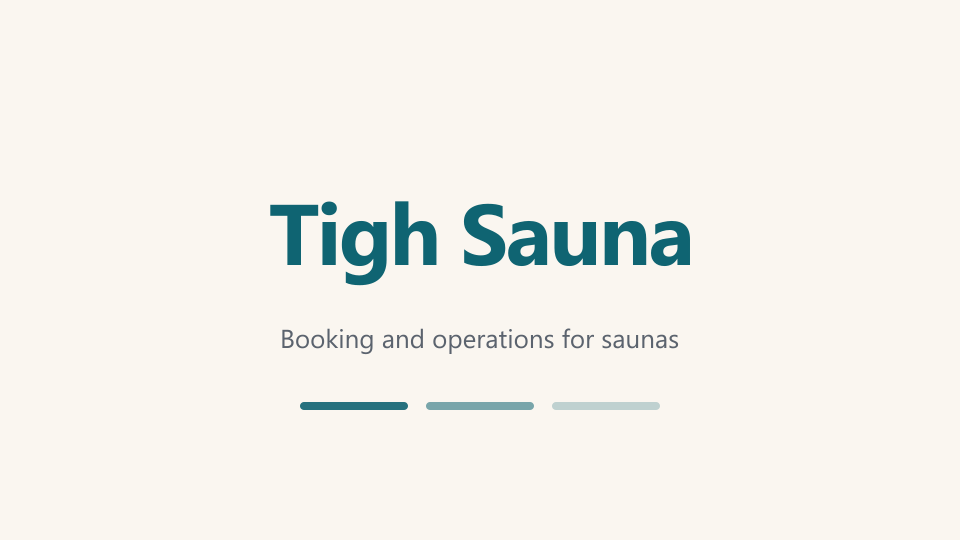
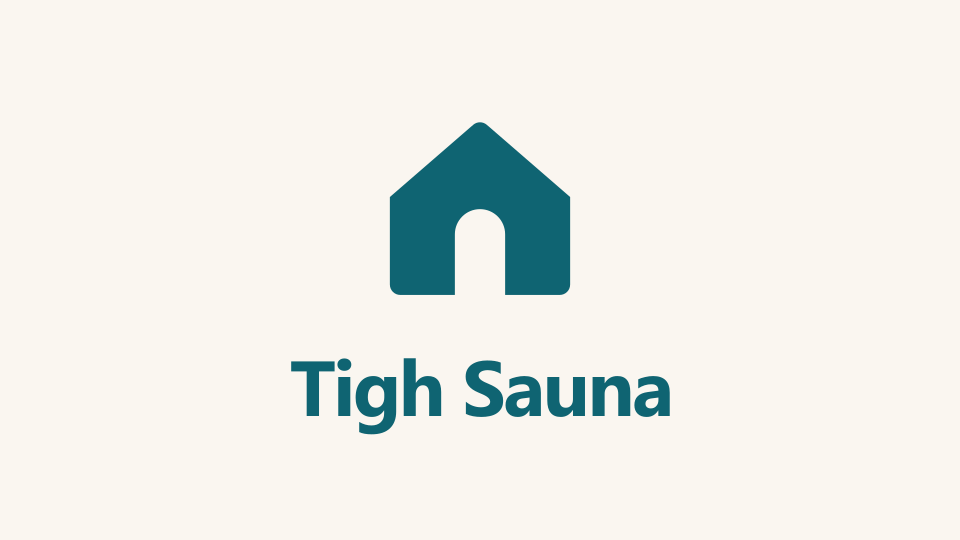
feat(images): the Tigh Sauna card is the house mark now, not a stand-in
The card was a typographic lockup with three bars standing in for a diary,
written when there was no mark to copy and inventing one would have been a
claim about the brand. There is one now, so the stand-in goes.

The house is vendored from the product's own icon rather than redrawn, same
reason as the Loira L: this card has to keep building after the live site is
next redesigned. Steam on birch, unchanged, and the tagline goes with the bars
because the card sits directly above that same sentence and was printing it
twice.

One trap worth the words in AGENTS.md, because it reads like a corrupt file and
is not: libvips sniffs only about the first thousand bytes of a file for the SVG
signature, so the provenance comment above the tag pushed the signature out of
the window and sharp failed with "Input file contains unsupported image format".
Measured, not guessed: the load flips from OK to FAIL as the tag crosses ~1000
bytes, and passing a Buffer hides it because sharp sniffs those itself. The tag
stays on line 1 and the documentation sits inside the element.

Changed region(s): [[0.2812, 0.237, 0.7188, 0.563], [0.2812, 0.5926, 0.7188, 0.8296]]

diff --git a/content/projects.ts b/content/projects.ts
@@ -40,7 +40,8 @@ export const projects: Project[] = [
     stack: ["Next.js", "TypeScript", "Fastify", "PostgreSQL", "Supabase", "Shopify", "Railway", "Vercel"],
     links: [{ label: "live", href: "https://tighsauna.com" }],
     image: "/img/tigh-sauna.png",
-    imageAlt: "The Tigh Sauna wordmark in steam teal, above the line 'booking and operations for saunas'",
+    imageAlt:
+      "The Tigh Sauna mark, a pitched house with an arched door, in steam teal on warm birch, above the words 'Tigh Sauna'",
   },
   {
     slug: "presterly",

diff --git a/AGENTS.md b/AGENTS.md
@@ -429,15 +429,25 @@ clone still builds everything else.
   decoder; it reads the metadata then fails on the pixels), so the script shells out to `ffmpeg`
   to decode to PNG first and crops from that. ffmpeg on PATH is needed for this step only.
 - `presterly.png`, `loira.png`: brand marks composited onto 16:9 cards.
-- `tigh-sauna.png`: a typographic lockup in Tigh Sauna's colours, `steam #0f6472` on
-  `birch #faf6f0`, with three session bars standing in for a diary. No vendored mark, so this
-  is the one builder that can never skip. **Do not restyle it in the old ember orange**: ember
-  only reached 3.94:1 on white, which is why it stopped being used for text.
+- `tigh-sauna.png`: the Tigh Sauna house mark over the wordmark, `steam #0f6472` on
+  `birch #faf6f0`. The mark is vendored at `assets/sources/tigh-house-steam.svg`, copied from
+  the product's own `apps/site/src/app/icon.svg`. **Do not restyle it in the old ember orange**:
+  ember only reached 3.94:1 on white, which is why it stopped being used for text.
+  It previously carried a typographic lockup with three session bars and the tagline, written
+  when there was no mark to copy; both went when the real house arrived, the tagline because
+  the card sits directly above that same sentence and was printing it twice.
   This replaced `firespark.png`, and the Firespark builder and its vendored spark were deleted
   with it. **Firespark, Hearth and Sauna OS are retired names for what is now Tigh Sauna.** They
   survive in package names and deploy paths and must never appear in anything a person reads;
   `content/links.test.ts` fails the build if one reaches an outbound link. Firecracker Saunas is
   a *customer*, a different thing, and is not the same as Firespark.
+
+  **The trap that cost time here, and will again:** libvips sniffs only about the first thousand
+  bytes of a *file* for the SVG signature. A vendored mark whose provenance comment sits above
+  its `<svg>` tag pushes that signature out of the window, and `sharp(path)` then fails with
+  "Input file contains unsupported image format", which reads like a corrupt file rather than a
+  long comment. Keep `<svg` on line 1 and document inside the element. Passing a Buffer hides
+  the problem, because sharp sniffs those itself.
 - `remand.png`, `contrabot.png`: authored SVG, rasterised. Deliberately not stock screenshots.
   In `contrabot`, **all geometry is in screen coordinates where a smaller y is a higher price**,
   getting that backwards once produced a rising chart captioned as a profitable short.
